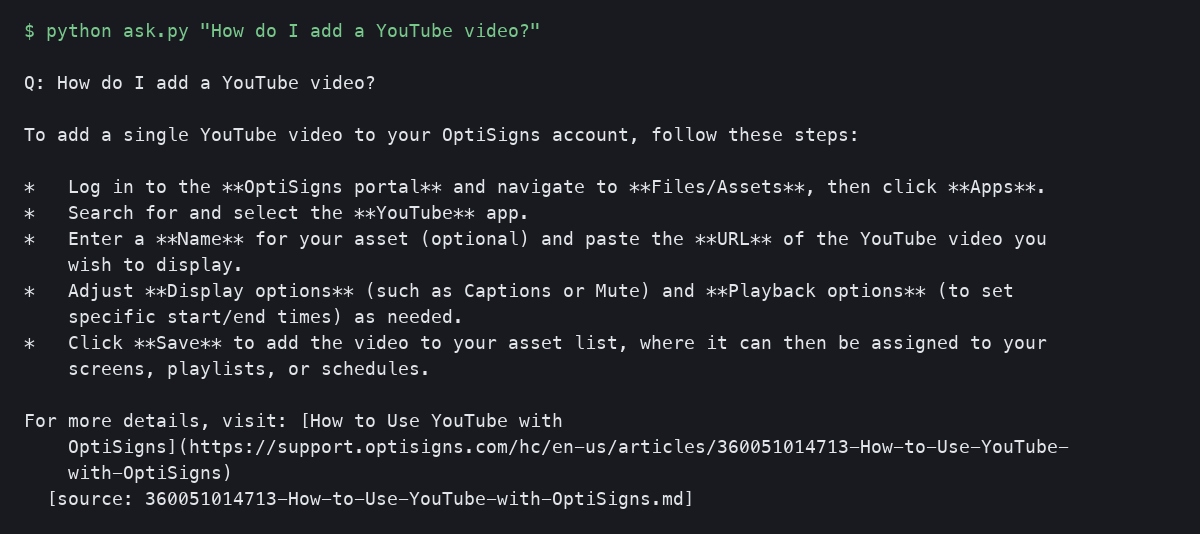
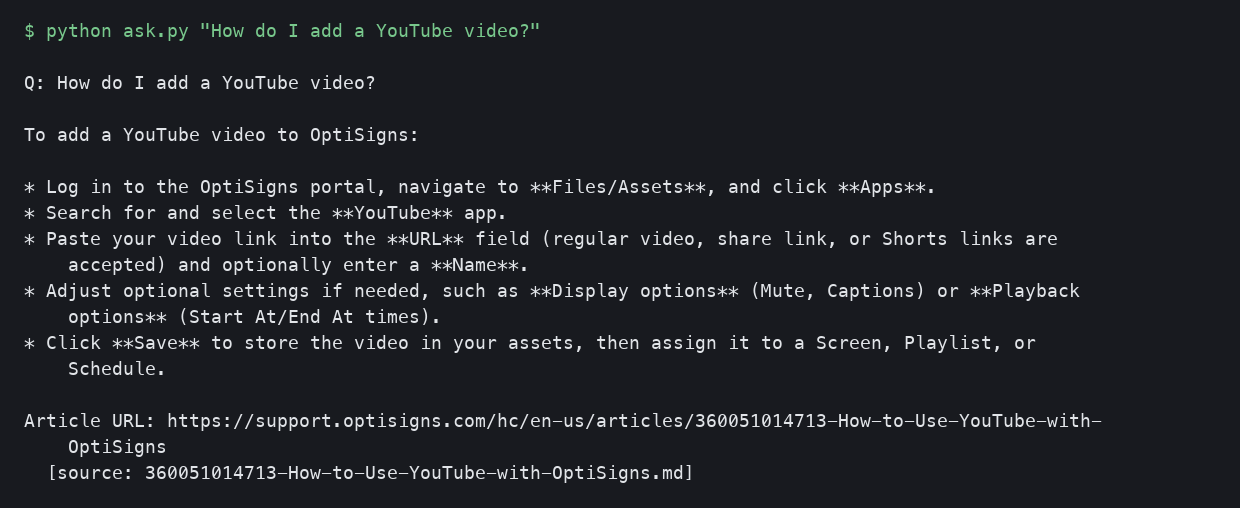
fix(bot): answer with gemini-3.8-flash to follow the Article URL citation rule

diff --git a/ask.py b/ask.py
@@ -11,7 +11,7 @@ SYSTEM_PROMPT = """You are OptiBot, the customer-support bot for OptiSigns.com.
 • Max 5 bullet points; else link to the doc.
 • Cite up to 3 "Article URL:" lines per reply."""
 
-MODEL = os.environ.get("MODEL", "gemini-3.1-flash-lite")
+MODEL = os.environ.get("MODEL", "gemini-3.8-flash")
 DEFAULT_QUESTION = "How do I add a YouTube video?"
 
 

diff --git a/README.md b/README.md
@@ -35,7 +35,7 @@ Full first load (415 articles) takes longer than 15 min: run it once with `TIMEO
 
 | | Choice |
 |---|---|
-| Store | Gemini File Search, answers with `gemini-3.1-flash-lite` |
+| Store | Gemini File Search, answers with `gemini-3.8-flash` (follows the "Article URL:" citation rule. `MODEL` overrides it) |
 | Chunking | Whitespace chunks of 512 tokens, 64 overlap. Median article ≈1,140 tokens, so 2–3 chunks per article and one how-to section per chunk |
 | Chunk count | Gemini reports none, so `chunks_embedded_estimated` = characters / 3.5 |
 | Delta | SHA-256 of the Markdown. Deletes run only after every page was fetched |
